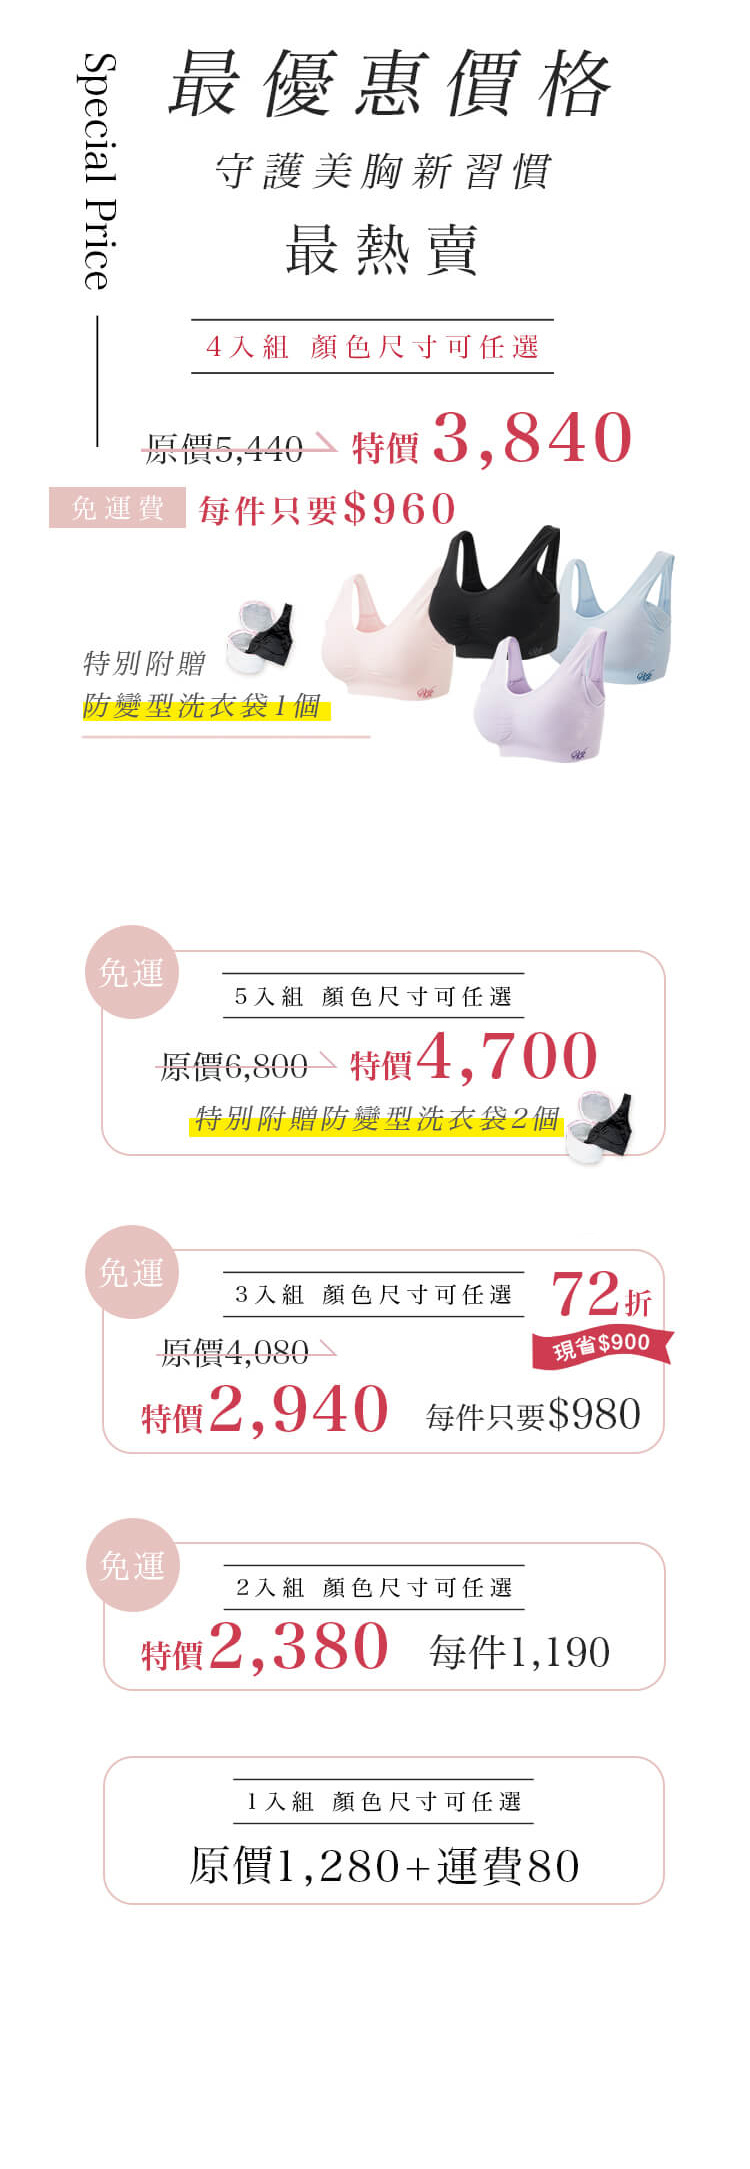
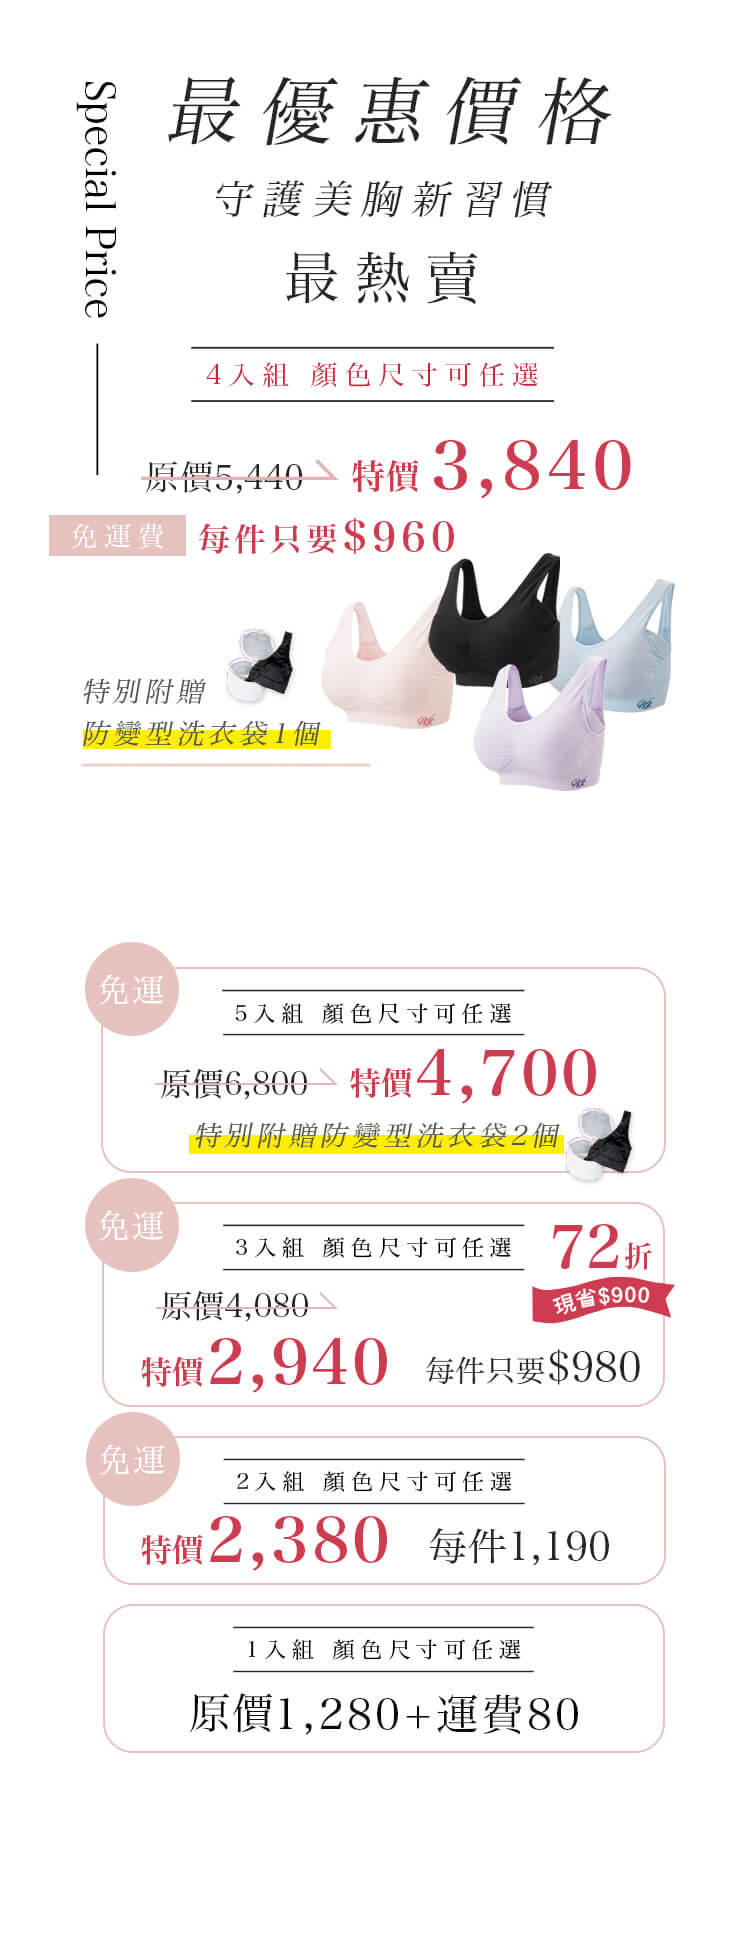
20201118_offer update

diff --git a/css/style.css b/css/style.css
@@ -27,7 +27,7 @@ html,body {
     position: absolute;
     width: 20%;
     display: block;
-    bottom: 8%;
+    bottom: 10%;
     right: 40%;
 }
 
@@ -40,7 +40,7 @@ html,body {
     width: 63%;
     display: block;
     right: 18%;
-    top: 35.5%;
+    top: 42.5%;
 }
 
 .SP .offerbox_m .offerbtn_m_2{
@@ -48,7 +48,7 @@ html,body {
     width: 63%;
     display: block;
     right: 18%;
-    bottom: 3.5%;
+    bottom: 2.5%;
 }
 
 .offerbtn:hover{
